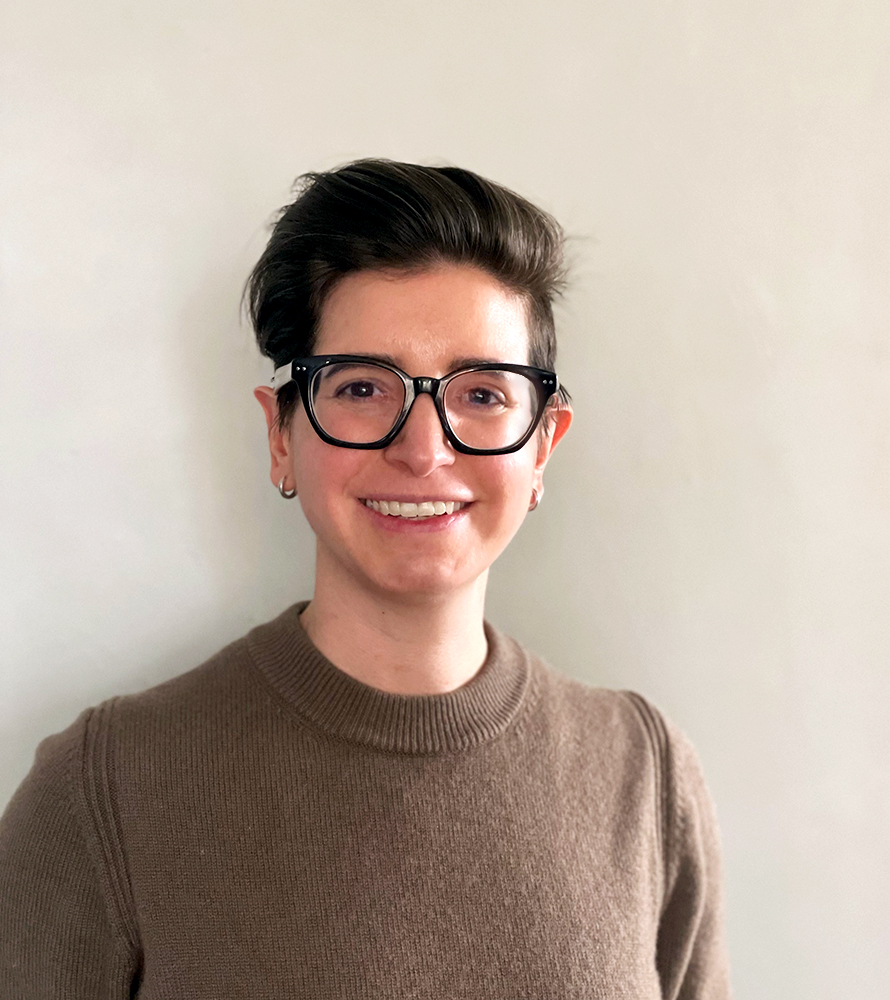
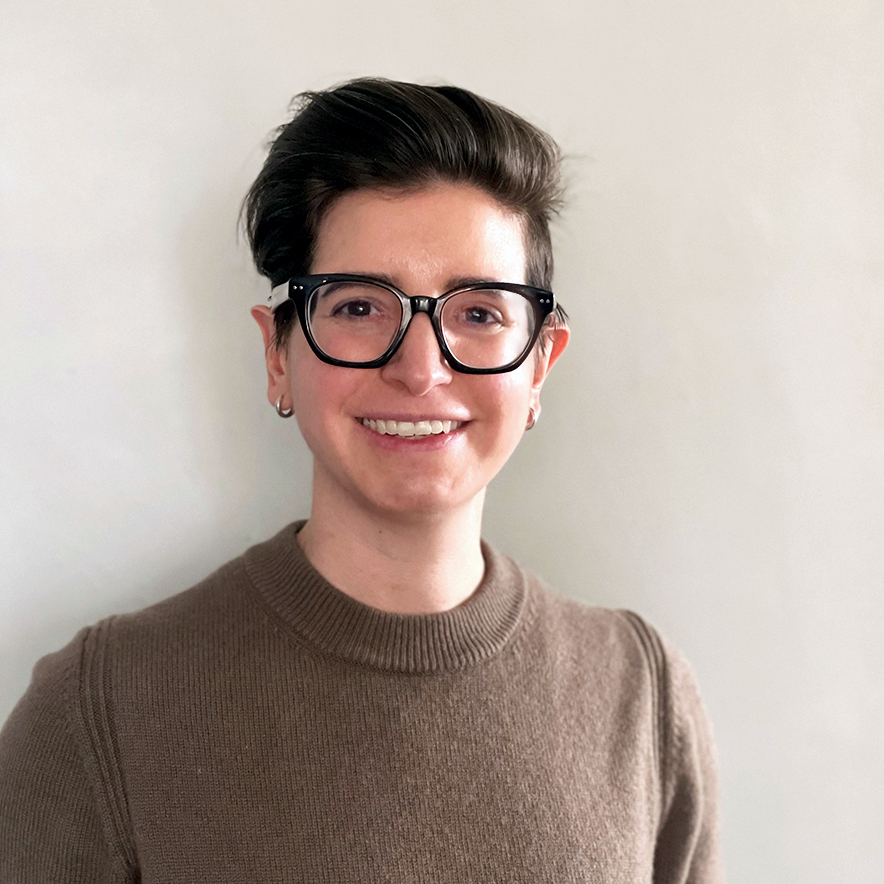
Added Kelli headshot image & added to about page

diff --git a/about/styles_about.css b/about/styles_about.css
@@ -1,8 +1,8 @@
 /************************************************************************/
 /*Body*/
 * {
-  box-sizing: border-box; 
-  list-style-type: none; 
+  box-sizing: border-box;
+  list-style-type: none;
 }
 
 body {
@@ -108,75 +108,69 @@ em {
   display: block;
 }
 
+/**********MAIN******************************/
 
-  
-  /**********MAIN******************************/
-  
-  
-  .aboutustext{
-   display: block;
-   justify-content: center;
-   margin-left: 5%;
-   margin-right: 5%;
-  }
-  
-  .container {
-    display: flex;
-    align-items: center;
-    justify-content: center;  
-    margin-left: 5%;
-    margin-right: 5%;
-  }
-  
-  .image {
-    display:block;
-    width: 90%;
-    margin-left:  8px;
-    margin-right: 8px;
-    filter: grayscale(100%)
-  }
-  
-  .overlay {
-    display:block;
-    width:90%;
-    margin-left:  8px;
-    margin-right: 8px;
-    opacity: 00;
-    transition: .5s ease;
-    background-color: rgb(224, 223, 226);
-  }
-  
-  .container .image:hover .overlay {
-    opacity: 0.9;
-  }
-  
-  .image:hover{
-    filter: grayscale(0%)
-  }
-  .caption {
-    display:block;
-      color: rgb(0, 0, 0);
-    font-size: 20px;
-    text-align: center;
-  
-  }
-  /************************************************************************/
-  /*Arrow to go back*/
-  back{
+.aboutustext {
+  display: block;
+  justify-content: center;
+  margin-left: 5%;
+  margin-right: 5%;
+}
+
+.container {
+  display: flex;
+  align-items: center;
+  justify-content: center;
+  margin-left: 5%;
+  margin-right: 5%;
+}
+
+.image {
+  display: block;
+  width: 90%;
+  margin-left: 8px;
+  margin-right: 8px;
+  filter: grayscale(100%);
+}
+
+.overlay {
+  display: block;
+  width: 90%;
+  margin-left: 8px;
+  margin-right: 8px;
+  opacity: 00;
+  transition: 0.5s ease;
+  background-color: rgb(224, 223, 226);
+}
+
+.container .image:hover .overlay {
+  opacity: 0.9;
+}
+
+.image:hover {
+  filter: grayscale(0%);
+}
+.caption {
+  display: block;
+  color: rgb(0, 0, 0);
+  font-size: 20px;
+  text-align: center;
+}
+/************************************************************************/
+/*Arrow to go back*/
+back {
   pointer-events: all;
   cursor: pointer;
   max-width: 50px;
   max-height: 50px;
   margin-left: 5%;
-  }
-  
-  /************************************************************************/
-  /*Footer*/
-  footer {
-    grid-row: 9;
-    grid-column: 1 / span 6;
-    background-color: rgb(217, 217, 217, 100%);
-    margin-top: auto;
-  }
-  
-  
+}
+
+/************************************************************************/
+/*Footer*/
+footer {
+  grid-row: 9;
+  grid-column: 1 / span 6;
+  background-color: rgb(217, 217, 217, 100%);
+  margin-top: auto;
+}
